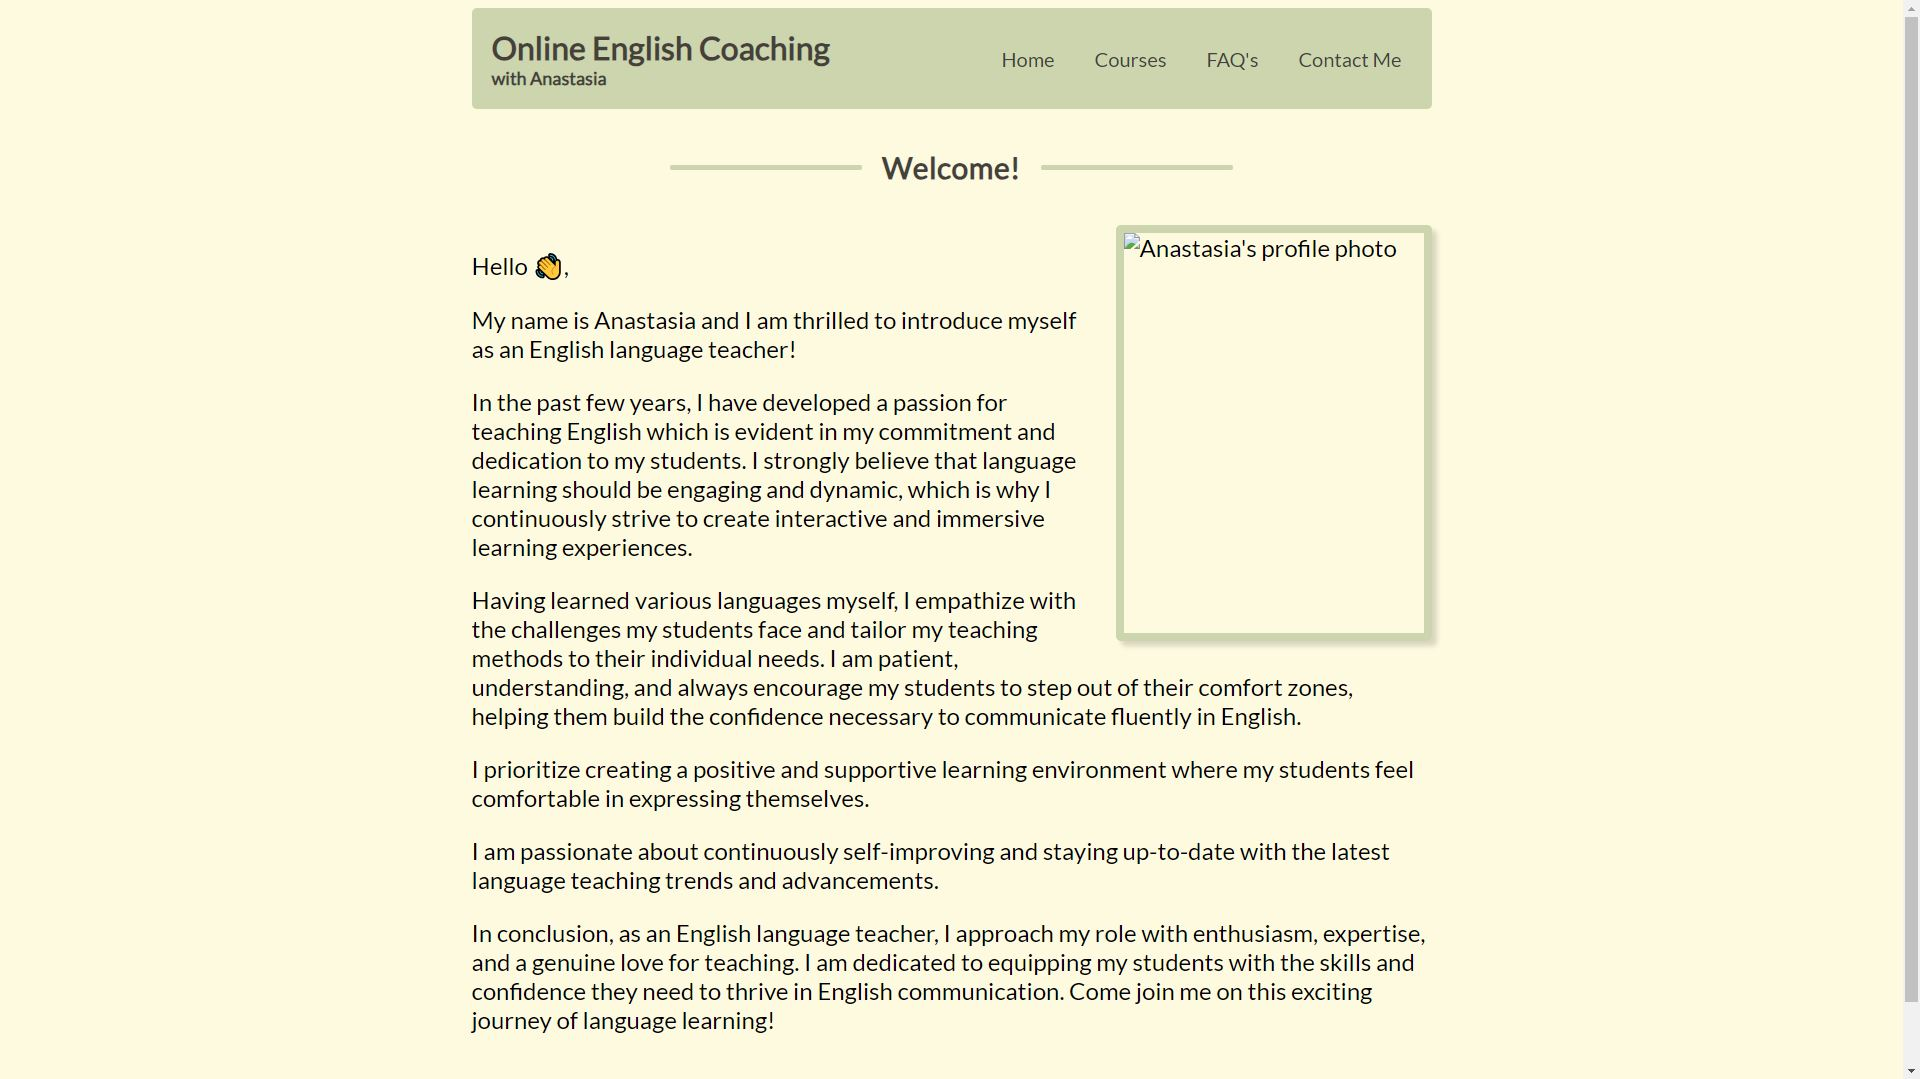
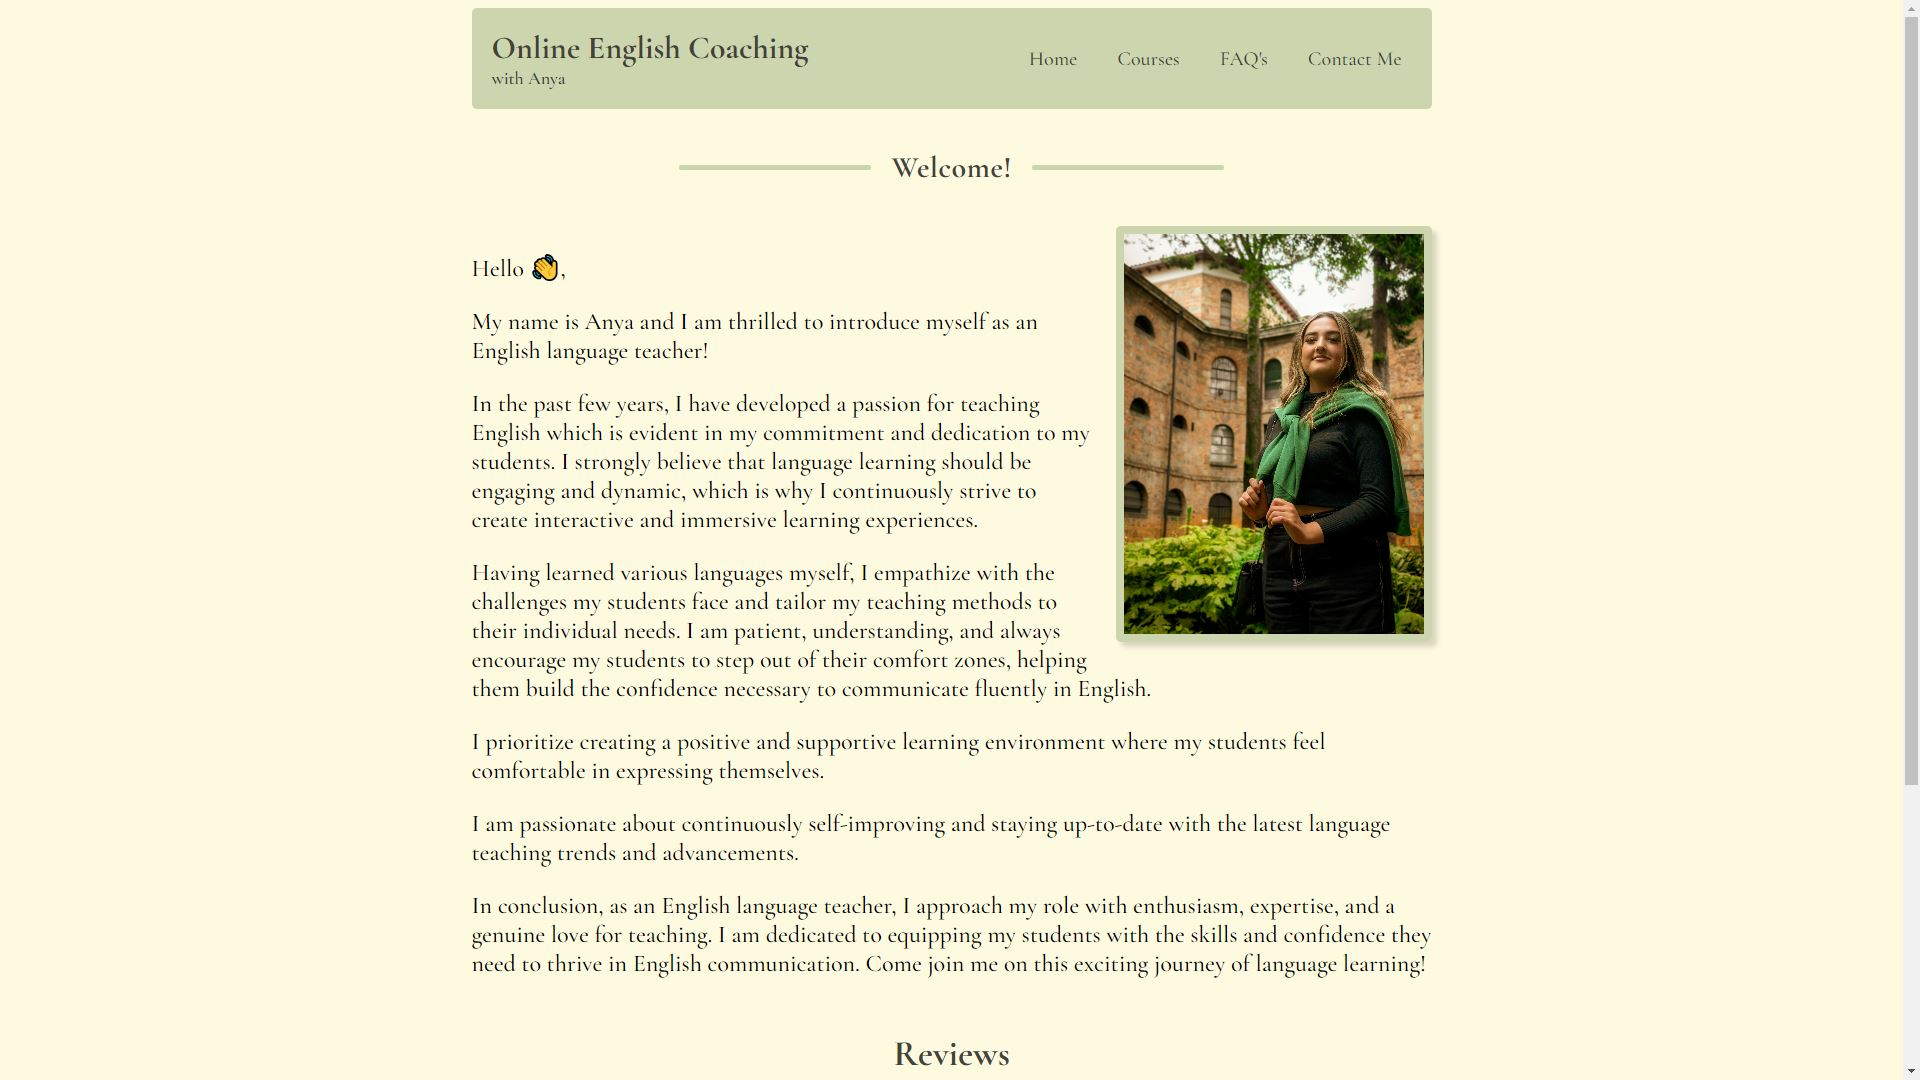
Updates SRC

diff --git a/portfolio.js b/portfolio.js
@@ -15,7 +15,7 @@ $(document).ready(function () {
       data.projects.forEach(function (project) {
         $('#grid__container').append(
           '<div class="card__wrapper">' +
-            '<img src="/portfolio-images/' +
+            '<img src="portfolio-images/' +
             project.image +
             '"alt=' +
             project.image +

diff --git a/index.html b/index.html
@@ -96,7 +96,7 @@
           <figure>
             <img
               id="header__section-photo"
-              src="/images/profile-photo.jpg"
+              src="images/profile-photo.JPG"
               alt="Chris profile photo"
             />
           </figure>
